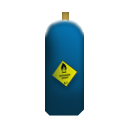
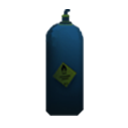
add victory screen, update fuel gauge

Changed region(s): [[0.3438, 0.0625, 0.6562, 0.9062]]

diff --git a/js/game.js b/js/game.js
@@ -11,6 +11,7 @@ var deadPoint = null;
 var fuelBar;
 var fuelBarRect;
 var fuelCostRate;
+var fuelBarBg;
 
 //game data
 var goldNum = 0;
@@ -61,10 +62,11 @@ var Game = {
         game.load.image('item', 'images/Art/Environment/Assets/ENV_GoldCoin.png');
         game.load.image('chest', 'images/Art/Environment/Assets/chestL.png');
         game.load.image('fuelCan', 'images/Art/Environment/Assets/FuelCan.png');
-        game.load.image('deathMarker', 'images/Art/Environment/Assets/Tumb_1.png');
+        game.load.image('deathMarker', 'images/Art/GUI/deathMarker.png');
         game.load.image('lifeOn', 'images/Art/GUI/lifeOn.png');
         game.load.image('lifeOff', 'images/Art/GUI/lifeOff.png');
-        game.load.image('fuelBar', 'images/Art/GUI/fuelGauge.png')
+        game.load.image('fuelBar', 'images/Art/GUI/fuelGauge.png');
+        game.load.image('fuelBarBg', 'images/Art/GUI/fuelGaugeBackground.png');
 
         //load physics
         for(var i = 0; i < 7; i++)
@@ -270,6 +272,9 @@ var Game = {
         explosionSFX = game.add.audio('explosion');
         explosionSFX.allowMultiple = true;
 
+        victorySFX = game.add.audio('victory');
+        victorySFX.allowMultiple = true;
+
 
         //animations
         player.animations.add('player1', [1]);
@@ -282,11 +287,14 @@ var Game = {
         player.animations.play('player1', 1, true);
 
         //fuelbar
+        fuelBarBg = game.add.sprite(1540, 640, 'fuelBarBg');
+        fuelBarBg.fixedToCamera = true;
         fuelBar = game.add.sprite(1540, 640, 'fuelBar');
         fuelBar.fixedToCamera = true;
         //fuelBar.anchor.setTo(0.5, 1);
         fuelBarRect = new Phaser.Rectangle(0, 0, fuelBar.width, fuelBar.height);
         fuelBar.crop(fuelBarRect);
+
 
     },
 

diff --git a/js/over.js b/js/over.js
@@ -1,9 +1,16 @@
+var openChest;
+
 var Over = {
 
 	preload: function () {
 
-		game.load.image('over', 'images/Art/GUI/over.png');
-
+		if(!ifWin)
+			game.load.image('over', 'images/Art/GUI/over.png');
+		else
+		{	
+			game.load.image('over', 'images/Art/GUI/background.png');
+			game.load.spritesheet('openChest', 'images/Art/GUI/GUI_endingSpriteSheet 520x900 120.png', 520, 900, 120)
+		}
 
 
 	},
@@ -11,6 +18,10 @@ var Over = {
 	create: function () {
 
 		this.add.button(0, 0, 'over', this.startGame, this);
+		openChest = this.add.sprite(800, 450, 'openChest');
+		openChest.anchor.setTo(0.5, 0.5);
+		openChest.animations.add('open');
+		openChest.animations.play('open', 20, true);
 
 
 	},

diff --git a/js/input.js b/js/input.js
@@ -1,5 +1,7 @@
 var input;
 
+var ifWin = false;
+
 var inputManager = {
 
 	create: function()
@@ -43,7 +45,7 @@ var inputManager = {
             	rebirth();
             }
             else{
-            	if(goldNum >= 500){
+            	if(goldNum >= 0){
             		victory();
             	}
             	else
@@ -63,7 +65,7 @@ var inputManager = {
 
 function victory(){
 
-	console.log("victory");
+	ifWin = true;
 	victorySFX.play();
-
+	gameOver();        
 }

diff --git a/js/texts.js b/js/texts.js
@@ -7,6 +7,7 @@ var speedXText;
 var speedYText;
 var speedText
 
+
 var lifeUI = new Array();
 
 var texts = {
